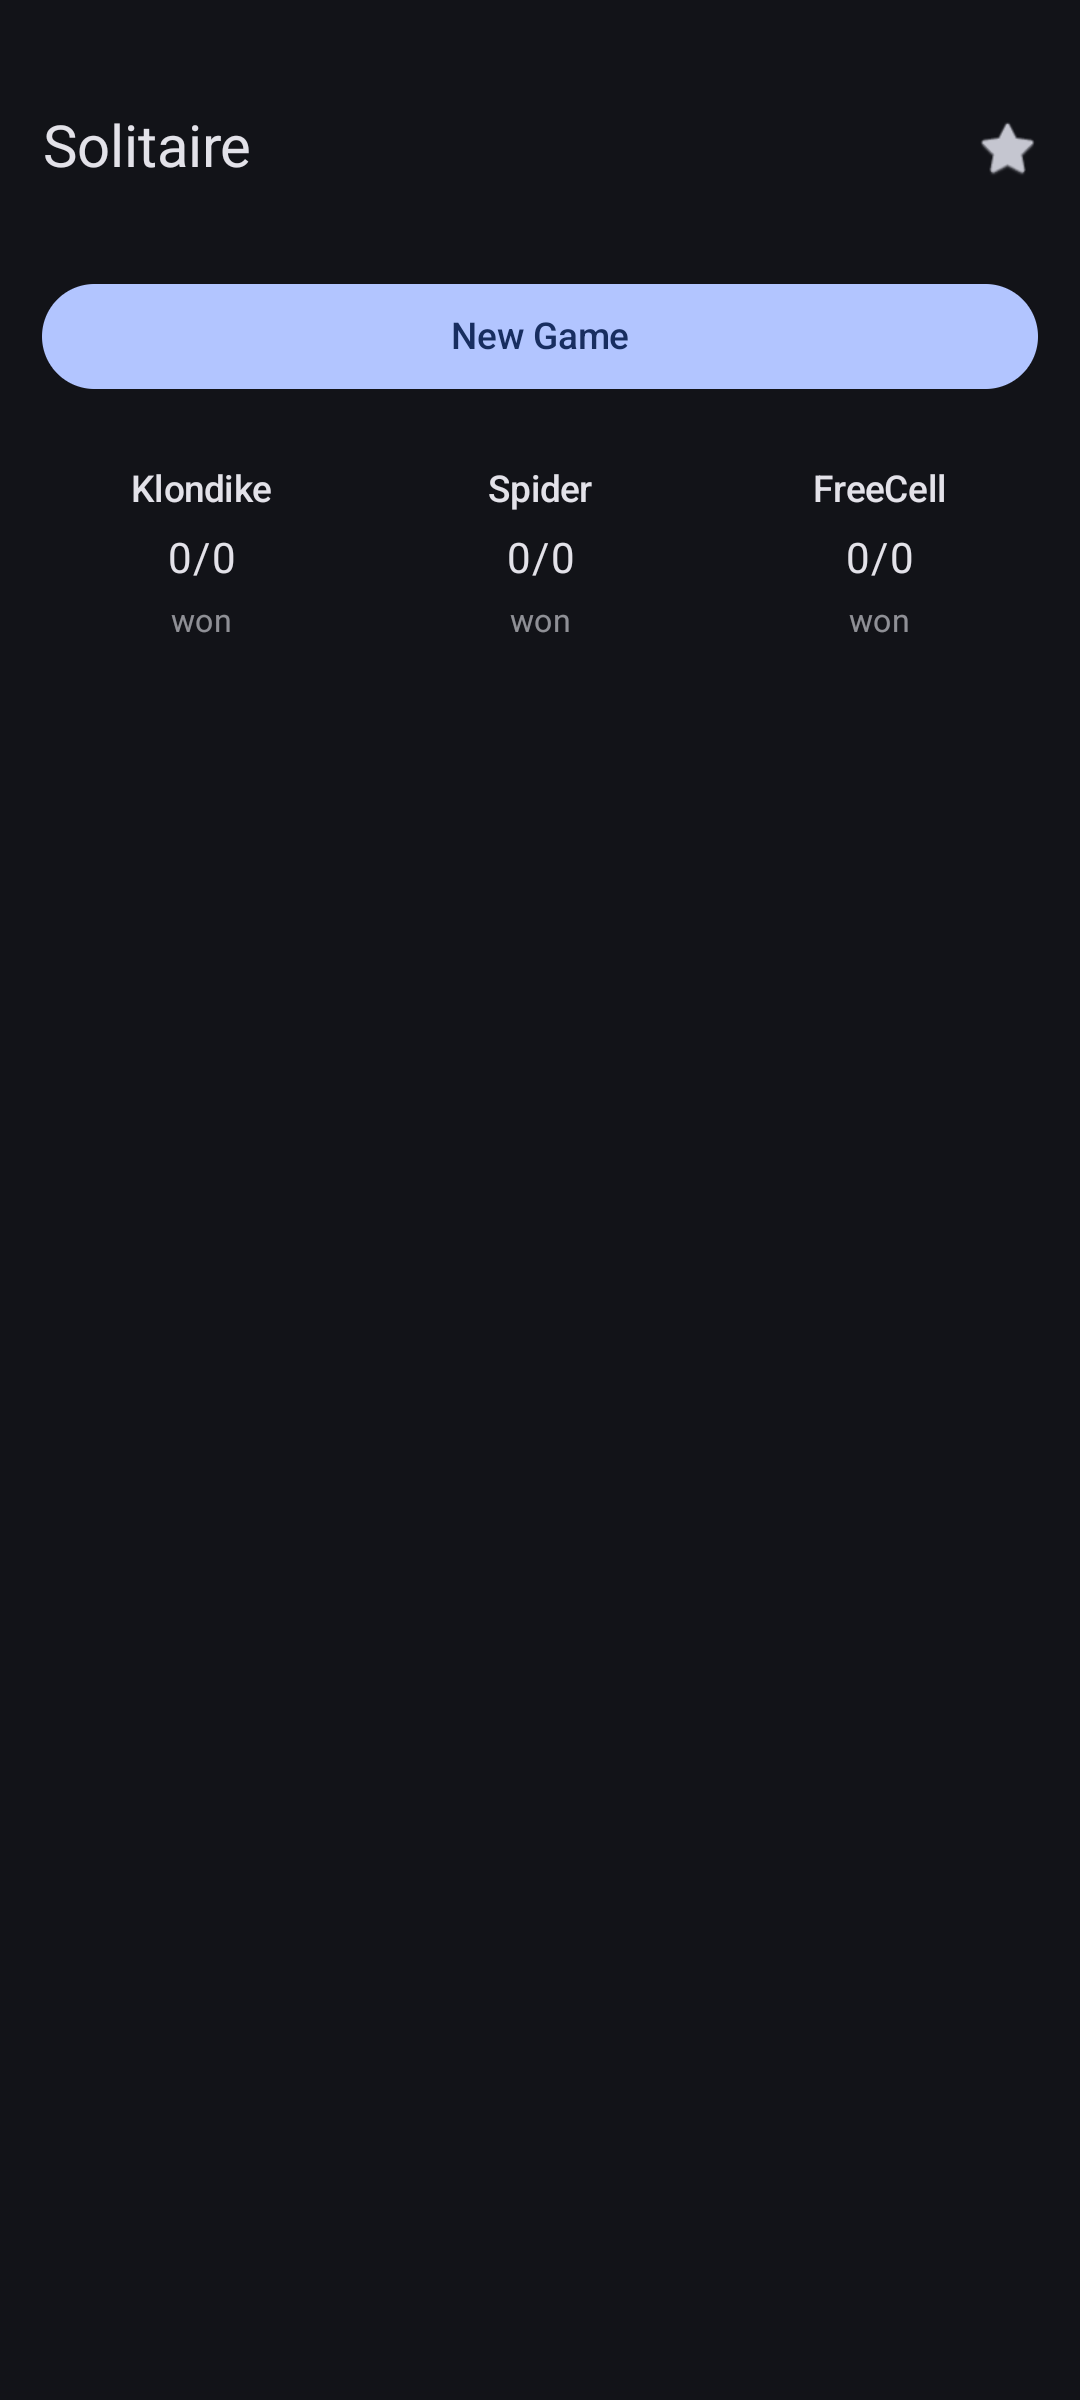
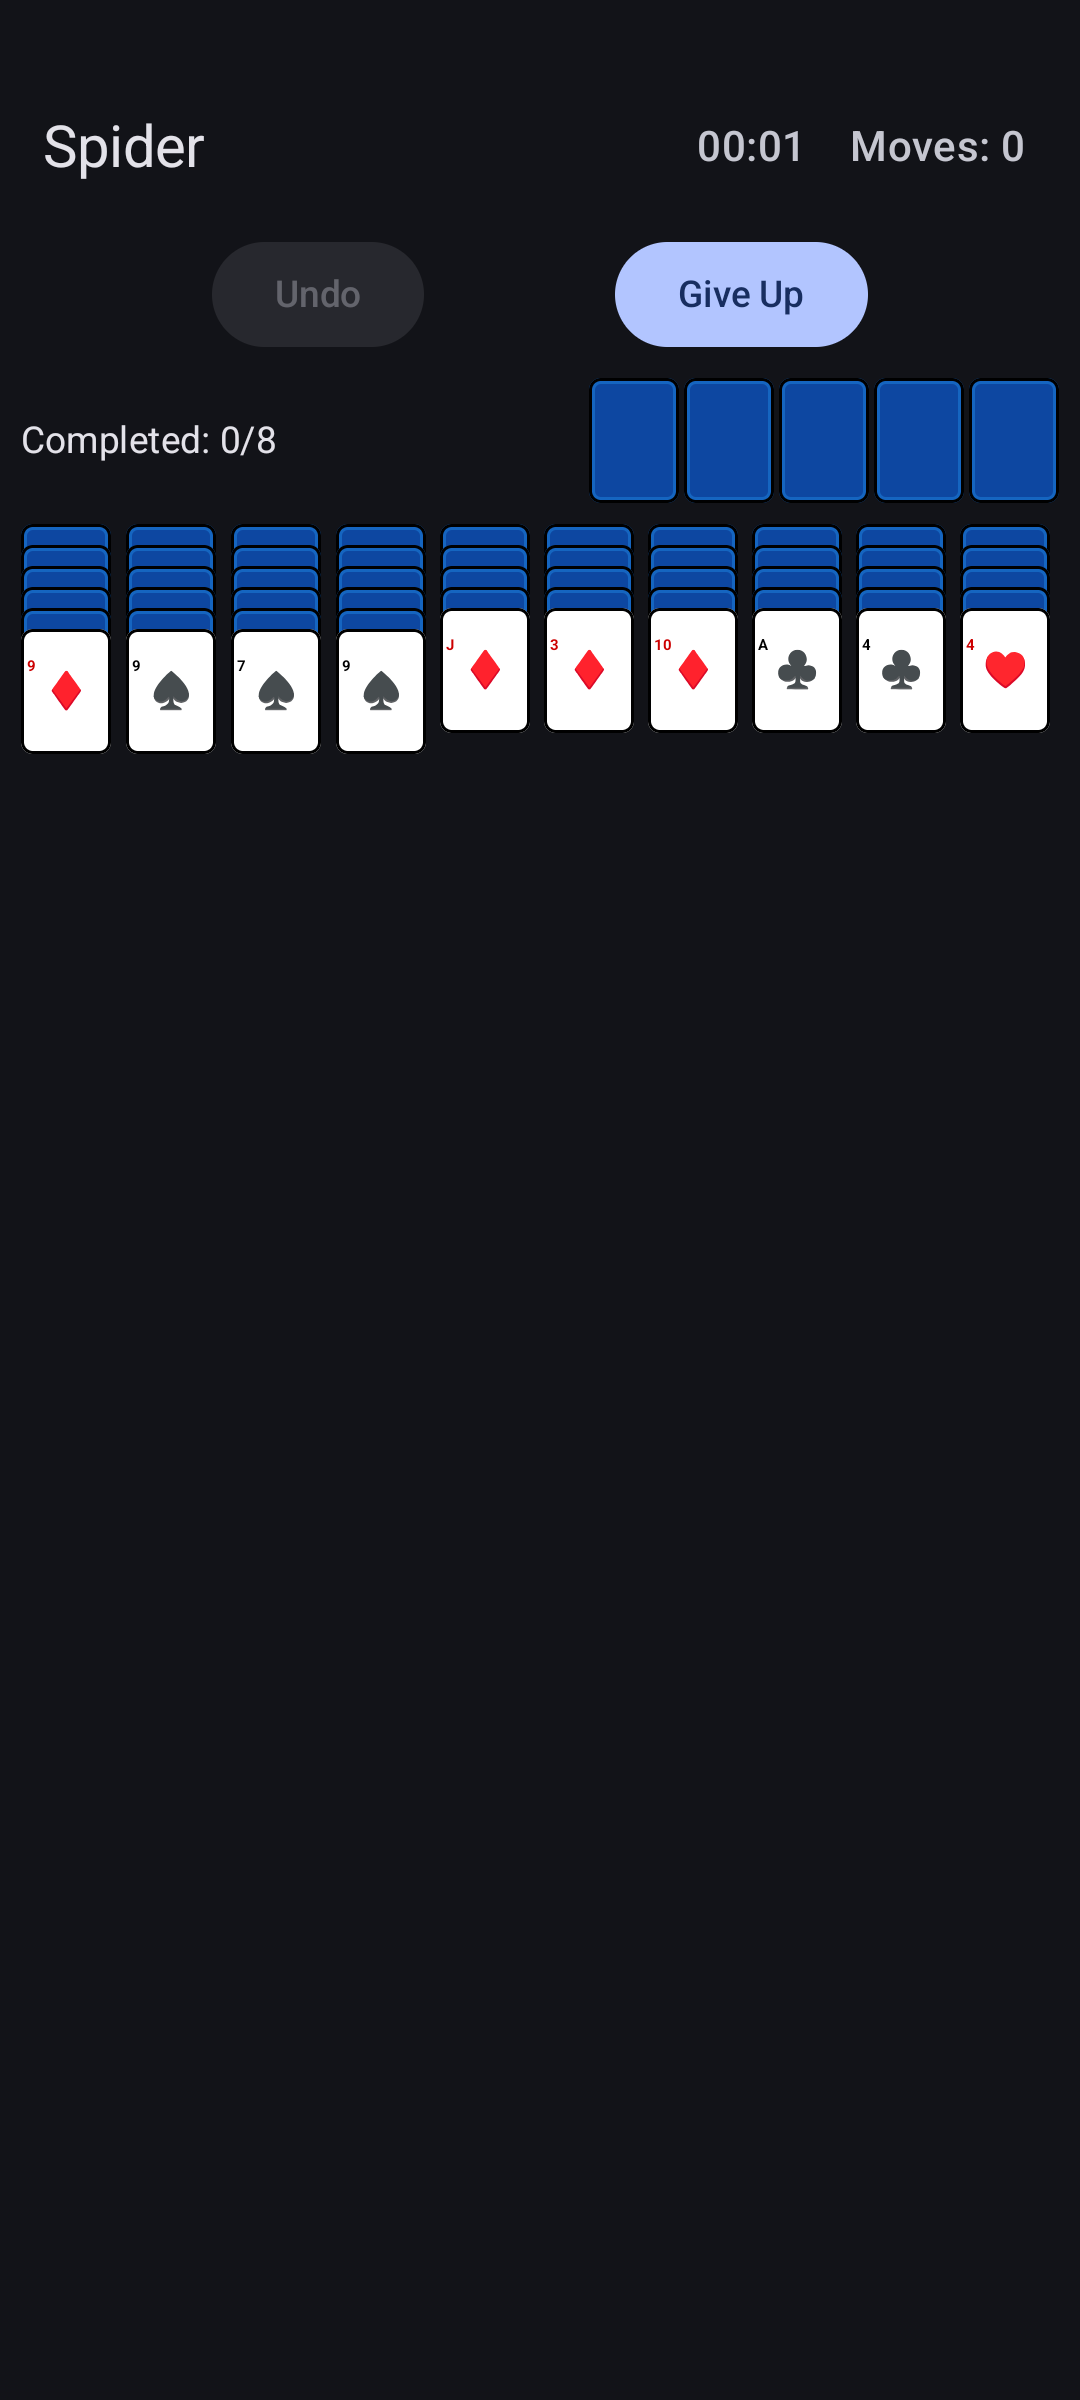
solitaire: updated automated screenshot generation

diff --git a/games/solitaire/src/androidTest/java/com/vayunmathur/games/solitaire/MetadataScreenshots.kt b/games/solitaire/src/androidTest/java/com/vayunmathur/games/solitaire/MetadataScreenshots.kt
@@ -3,6 +3,8 @@ package com.vayunmathur.games.solitaire
 import android.graphics.Bitmap
 import androidx.compose.ui.graphics.asAndroidBitmap
 import androidx.compose.ui.test.captureToImage
+import androidx.compose.ui.test.hasClickAction
+import androidx.compose.ui.test.hasText
 import androidx.compose.ui.test.junit4.createAndroidComposeRule
 import androidx.compose.ui.test.onNodeWithText
 import androidx.compose.ui.test.onRoot
@@ -15,11 +17,14 @@ import org.junit.runner.RunWith
 import java.io.File
 
 /**
- * Screenshot generator driven by `:games:solitaire:metadata`. Leads with the dealt
- * Klondike board, then the home menu with per-mode stats.
+ * Screenshot generator driven by `:games:solitaire:metadata`. Captures a dealt board for
+ * each of the three game types: Klondike, Spider, and FreeCell.
  *
- * The game screen runs a 1s timer that keeps Compose perpetually busy, so the test clock
- * is paused (autoAdvance = false) and advanced manually so captures settle.
+ * The game screen runs a 1s timer that keeps Compose perpetually busy, so the clock is only
+ * paused while a board is on screen (to let captures settle). The Home screen and the
+ * New Game dialog have no such timer but do play navigation/dialog animations, so the clock
+ * must be auto-advancing there — otherwise a paused nav transition leaves buttons frozen
+ * mid-slide and taps miss them.
  */
 @RunWith(AndroidJUnit4::class)
 class MetadataScreenshots {
@@ -36,7 +41,11 @@ class MetadataScreenshots {
         }
     }
 
-    private fun snap(index: Int) {
+    /** Captures a board: pauses the perpetual game timer, settles, then snaps. Leaves the
+     * clock paused since giveUp() runs next on the still-busy game screen. */
+    private fun snapBoard(index: Int) {
+        composeRule.mainClock.autoAdvance = false
+        composeRule.mainClock.advanceTimeBy(1500)
         composeRule.waitForIdle()
         val image = composeRule.onRoot().captureToImage()
         File(outDir, "$index.png").outputStream().use { out ->
@@ -44,19 +53,36 @@ class MetadataScreenshots {
         }
     }
 
+    /**
+     * Opens the New Game dialog and starts the game whose button matches [buttonText]. Runs
+     * with the clock auto-advancing so the dialog and the nav transition into the board settle.
+     */
+    private fun startGame(buttonText: String) {
+        composeRule.onNodeWithText(ctx.getString(R.string.new_game)).performClick()
+        composeRule.waitForIdle()
+        // The mode names also appear on the home stats cards, so match the clickable
+        // dialog button specifically (substring for Klondike's "Draw 1" variant).
+        composeRule.onNode(hasText(buttonText, substring = true) and hasClickAction()).performClick()
+    }
+
+    /** Gives up the current board (clock paused so waitForIdle doesn't hang on the timer). */
+    private fun giveUp() {
+        composeRule.onNodeWithText(ctx.getString(R.string.give_up)).performClick()
+        composeRule.mainClock.autoAdvance = true
+        composeRule.waitForIdle()
+    }
+
     @Test
     fun generateStoreScreenshots() {
-        composeRule.mainClock.autoAdvance = false
+        startGame(ctx.getString(R.string.draw_one))
+        snapBoard(1) // Klondike board
 
-        // Home menu is up at launch — keep it as the second shot.
-        snap(2)
+        giveUp()
+        startGame(ctx.getString(R.string.spider))
+        snapBoard(2) // Spider board
 
-        // Start a Klondike (Draw 1) game to lead with the dealt board. Match the unique
-        // "Draw 1" substring to avoid depending on the em-dash in the full button label.
-        composeRule.onNodeWithText(ctx.getString(R.string.new_game)).performClick()
-        composeRule.mainClock.advanceTimeBy(500)
-        composeRule.onNodeWithText(ctx.getString(R.string.draw_one), substring = true).performClick()
-        composeRule.mainClock.advanceTimeBy(2000)
-        snap(1)
+        giveUp()
+        startGame(ctx.getString(R.string.freecell))
+        snapBoard(3) // FreeCell board
     }
 }